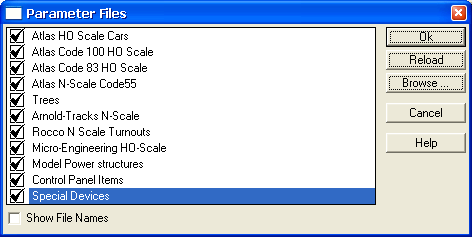
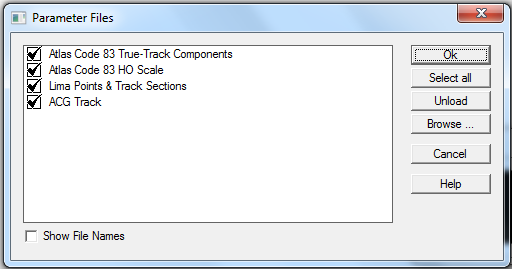
All: Multiple files can be selected in Parameter File load/unload dialog

diff --git a/app/bin/dprmfile.c b/app/bin/dprmfile.c
@@ -216,18 +216,20 @@ static wIcon_p chkbox_bm;
 
 static void ParamFileAction( void * );
 static void ParamFileBrowse( void * );
+static void ParamFileSelectAll( void * );
 
 static paramListData_t paramFileListData = { 10, 370 };
 static char * paramFileLabels[] = { N_("Show File Names"), NULL };
 static paramData_t paramFilePLs[] = {
 #define I_PRMFILLIST	(0)
 #define paramFileL				((wList_p)paramFilePLs[I_PRMFILLIST].control)
-	{	PD_LIST, NULL, "inx", 0, &paramFileListData, NULL, BL_DUP|BL_SETSTAY },
+	{	PD_LIST, NULL, "inx", 0, &paramFileListData, NULL, BL_DUP|BL_SETSTAY|BL_MANY },
 #define I_PRMFILTOGGLE	(1)
 	{	PD_TOGGLE, &paramFileSel, "mode", 0, paramFileLabels, NULL, BC_HORZ|BC_NOBORDER },
-#define I_PRMFILACTION	(2)
+	{	PD_BUTTON, (void *)ParamFileSelectAll, "selectall", PDO_DLGCMDBUTTON, NULL, N_("Select all") },
+#define I_PRMFILACTION	(3)
 #define paramFileActionB		((wButton_p)paramFilePLs[I_PRMFILACTION].control)
-	{	PD_BUTTON, (void*)ParamFileAction, "action", PDO_DLGCMDBUTTON, NULL, N_("Unload") },
+	{	PD_BUTTON, (void*)ParamFileAction, "action", PDO_DLGCMDBUTTON, NULL, N_("Unload"), 0L, FALSE },
 	{	PD_BUTTON, (void*)ParamFileBrowse, "browse", 0, NULL, N_("Browse ...") } };
 
 static paramGroup_t paramFilePG = { "prmfile", 0, paramFilePLs, sizeof paramFilePLs/sizeof paramFilePLs[0] };
@@ -324,37 +326,113 @@ static void ParamFileBrowse( void * junk )
 	return;
 }
 
+/**
+ * Update the action button. If at least one selected file is unloaded, the action button
+ * is set to 'Reload'. If all selected files are loaded, the button will be set to 'Unload'.
+ *
+ * \param varname1 IN this is a variable
+ * \return 
+ */
 
 static void UpdateParamFileButton(
 		wIndex_t fileInx )
 {
-	if (fileInx < 0 || fileInx >= paramFileInfo_da.cnt)
+	wIndex_t selcnt = wListGetSelectedCount( paramFileL );
+	wIndex_t inx, cnt;
+	
+	void * data;
+	
+	// set the default
+	wButtonSetLabel( paramFileActionB, _("Unload"));
+	paramFilePLs[ I_PRMFILACTION ].context = FALSE;
+	
+	//nothing selected -> leave
+	if( selcnt <= 0 )
 		return;
-	wButtonSetLabel( paramFileActionB,
-		paramFileInfo(fileInx).deleted?_("Reload"):_("Unload") );
+
+	// get the number of items in list
+	cnt = wListGetCount( paramFileL );
+
+	// walk through the whole list box
+	for ( inx=0; inx<cnt; inx++ ) 
+	{
+		if ( wListGetItemSelected( (wList_p)paramFileL, inx )) 
+		{
+			// if item is selected, get status
+			fileInx = (wIndex_t)wListGetItemContext( paramFileL, inx );
+	
+			if (fileInx < 0 || fileInx >= paramFileInfo_da.cnt)
+				return;
+			if( paramFileInfo(fileInx).deleted ) {
+				// if selected file was unloaded, set button to reload and finish loop
+				wButtonSetLabel( paramFileActionB, _("Reload"));
+				paramFilePLs[ I_PRMFILACTION ].context = TRUE;
+				break;
+			} 
+		}
+	}
 }
 
 
-static void ParamFileAction( void * junk )
+/**
+ * Unload selected files. 
+ *
+ * \param action IN FALSE = unload, TRUE = reload parameter files
+ * \return
+ */
+
+static void ParamFileAction( void * action )
 {
-	wIndex_t listInx;
+	wIndex_t selcnt = wListGetSelectedCount( paramFileL );
+	wIndex_t inx, cnt;
 	wIndex_t fileInx;
 	void * data;
-	listInx = wListGetValues( paramFileL, NULL, 0, NULL, &data );
-	if (listInx<0)
+	unsigned newDeletedState;
+
+	if( (unsigned)action )
+		newDeletedState = FALSE;
+	else
+		newDeletedState = TRUE;
+	
+	//nothing selected -> leave
+	if( selcnt <= 0 )
 		return;
-	fileInx = (wIndex_t)(long)data;
-	paramFileInfo(fileInx).deleted = ! paramFileInfo(fileInx).deleted;
-#ifndef LATER
-	strcpy( message, ((!paramFileSel) && paramFileInfo(fileInx).contents)?
-					 paramFileInfo(fileInx).contents:
-					 paramFileInfo(fileInx).name );
-	wListSetValues( paramFileL, listInx, message, (paramFileInfo(fileInx).deleted)?mtbox_bm:chkbox_bm, (void*)(intptr_t)fileInx );
-#endif
+
+	// get the number of items in list
+	cnt = wListGetCount( paramFileL );
+
+	// walk through the whole list box
+	for ( inx=0; inx<cnt; inx++ ) 
+	{
+		if ( wListGetItemSelected( (wList_p)paramFileL, inx ) ) 
+		{
+			fileInx = (wIndex_t)wListGetItemContext( paramFileL, inx );
+
+			// set the desired state
+			paramFileInfo(fileInx).deleted = newDeletedState;
+
+			strcpy( message, ((!paramFileSel) && paramFileInfo(fileInx).contents)?
+						 paramFileInfo(fileInx).contents:
+						 paramFileInfo(fileInx).name );
+			wListSetValues( paramFileL, inx, message, (paramFileInfo(fileInx).deleted)?mtbox_bm:chkbox_bm, (void*)(intptr_t)fileInx );
+		}
+	}
 	DoChangeNotification( CHANGE_PARAMS );
 	UpdateParamFileButton( fileInx );
 }
 
+/**
+ * Select all files in the list and set action button
+ *
+ * \param junk IN ignored
+ * \return 
+ */
+
+static void ParamFileSelectAll( void *junk )
+{
+	wListSelectAll( paramFileL );
+	UpdateParamFileButton( NULL );
+}
 
 static void ParamFileOk( void * junk )
 {
